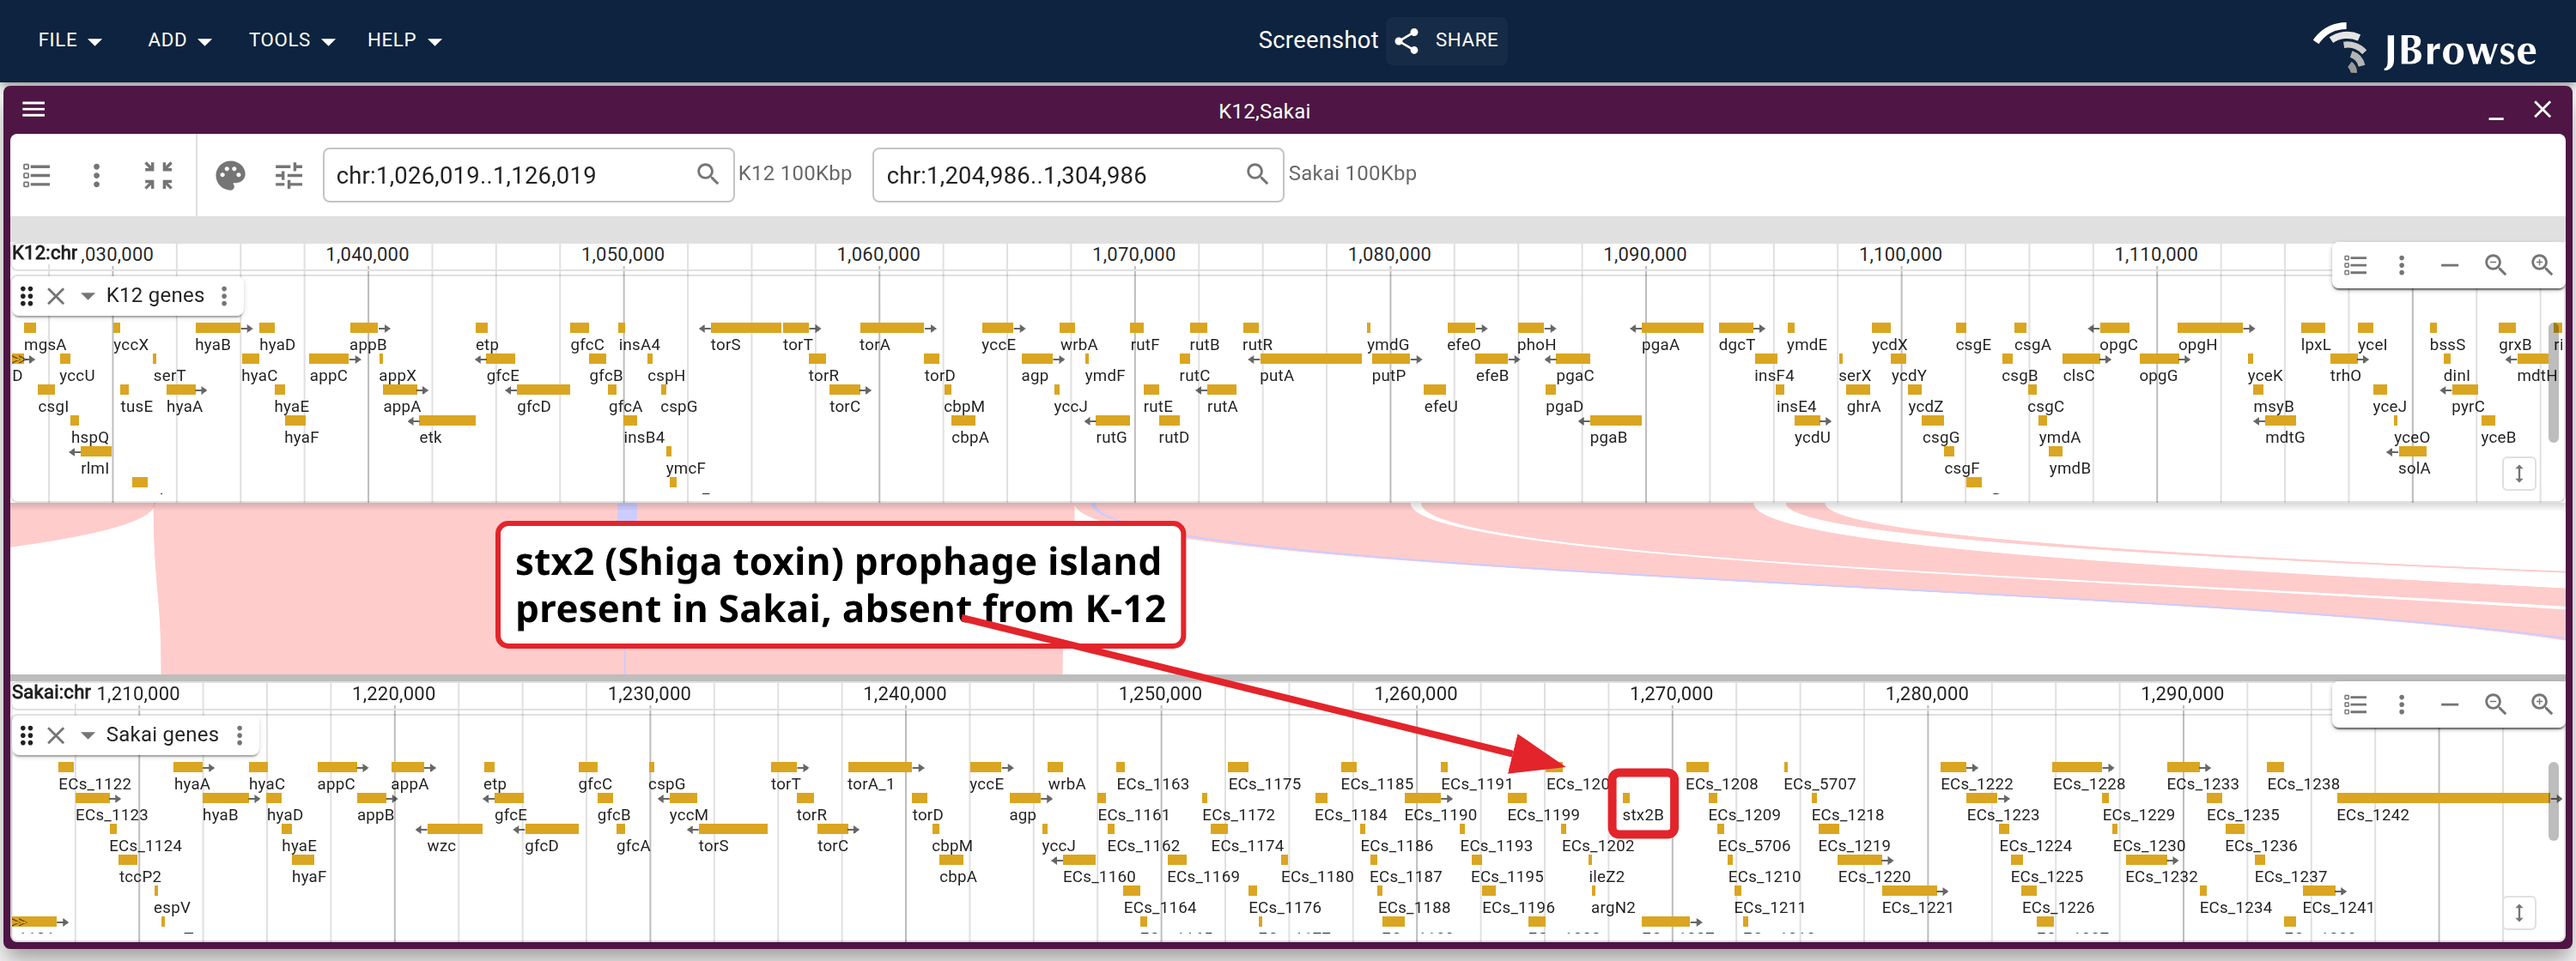
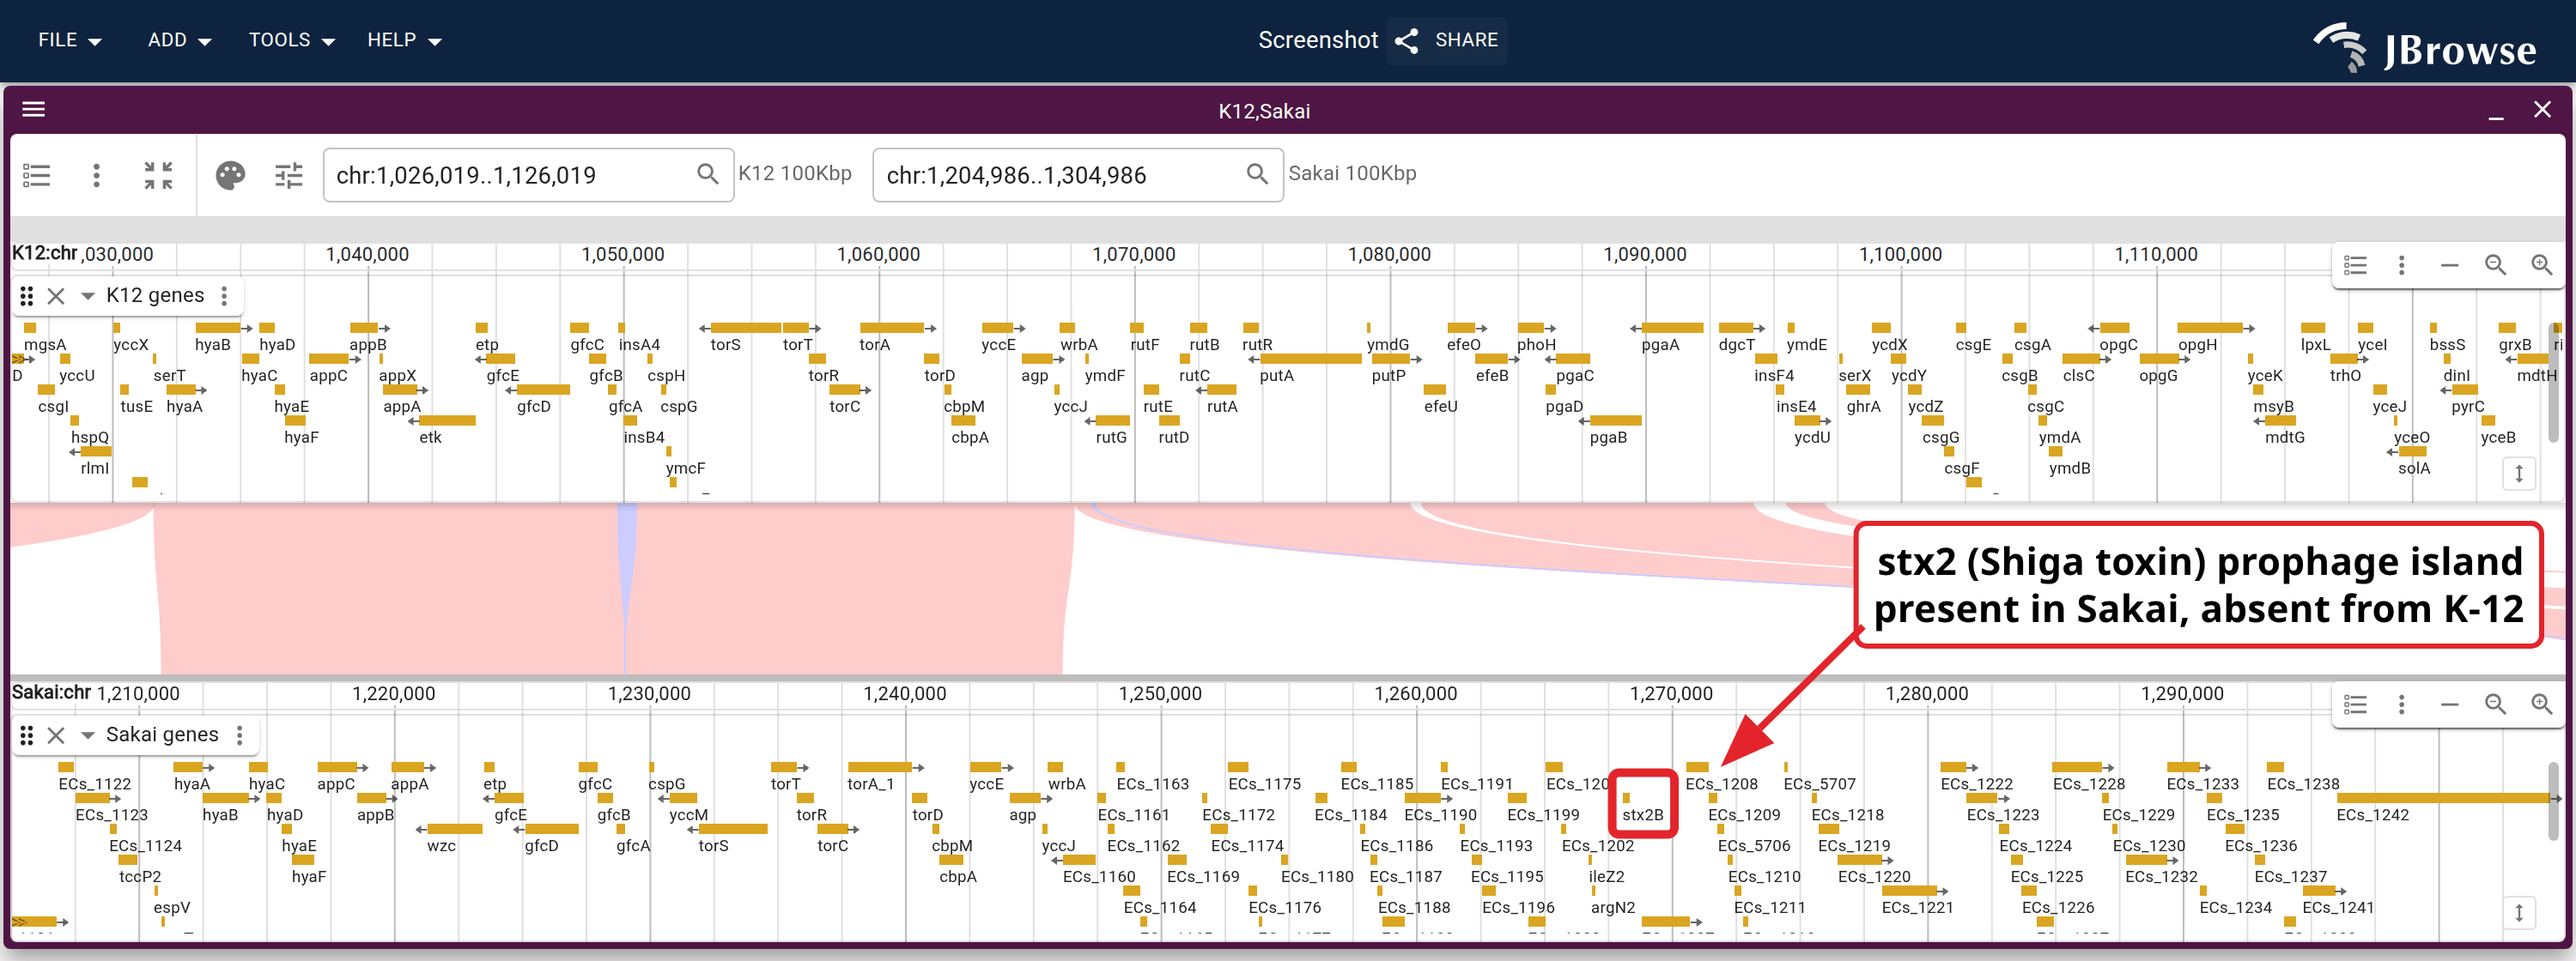
docs(website): three screenshot-review figures, and a graph beside the lanes
- multiway_synteny/ecoli_one_vs_all: "I don't see the graph in this screenshot.
  should be combined figure?" It is one now — the session carries a
  GraphGenomeView under the lanes, so the genes, the one-vs-all lanes and the
  graph of the same island are one capture. What the lanes cannot say is what
  the strains stopping at the island's left edge carry INSTEAD, since sequence
  absent from the alignment is absent from the PAF, and that is the short arm
  beside the long node. It draws the hosted gfatools slice rather than a launch
  cut off the segments index: the tabix cut expands one hop and indexes a link
  at its reference-side endpoint, so CFT073's and IAI39's detours come in as
  43 bp/558 bp stubs with nothing behind them. The island node is ringed as in
  pangenome/rgfa_paa_bubble, and the paa callout moves into the strip between
  the last lane and the graph pane's header.

- pangenome/rgfa_paa_bubble: "we may want to circle entries in the
  lineargenomeview/linearsyntenyview and the correspondance in
  graphgenomeview". A ring in each half, both anchored by name — the lane's
  from s502's own span out of the segs index, the graph's through the view's
  nodePositions, which resolves to a point ON the polyline rather than the
  bounding-box centre, which for an arc is the hole it encloses.

- multiway_synteny/ecoli_stx_island: callout moved to the right edge, as asked.
  textAlign 'end' is what pins the pill's right edge at an x, since its own
[…]

diff --git a/website/scripts/specs/synteny.ts b/website/scripts/specs/synteny.ts
@@ -13,6 +13,7 @@ import {
   hpyloriUrl,
   sessionSpec,
 } from '../screenshot-spec-helpers.ts'
+import { ECOLI_DEMO_BASE } from './demoBase.ts'
 
 import type { ScreenshotSpec } from '../screenshot-spec-types.ts'
 
@@ -957,19 +958,26 @@ export const syntenySpecs: ScreenshotSpec[] = [
     // capture time instead of hand-tuned pixels landing on a neighbor.
     annotations: [
       {
+        // right-aligned against the right edge (reviewer's ask). stx2B sits at
+        // about two thirds across, so the callout is on the far side of what it
+        // names and the arrow now runs right-to-left; `textAlign: 'end'` is what
+        // pins the pill's RIGHT edge at x, since its width is only known once
+        // the text is measured in the page.
         type: 'text',
         text: 'stx2 (Shiga toxin) prophage island\npresent in Sakai, absent from K-12',
-        x: 300,
+        x: 1470,
         y: 335,
+        textAlign: 'end',
         maxWidth: 380,
       },
       {
         type: 'arrow',
-        from: { x: 560, y: 360 },
+        from: { x: 1085, y: 365 },
         // stop short of the stx2B label instead of landing on top of it — the
-        // box below marks the gene itself
+        // box below marks the gene itself. Offset toward the tail, which is now
+        // on the right.
         anchor: { text: 'stx2B' },
-        dx: -45,
+        dx: 45,
         dy: -28,
       },
       {
@@ -1066,25 +1074,65 @@ export const syntenySpecs: ScreenshotSpec[] = [
               },
             ],
           },
+          // The graph of the same island, in the same frame (review: "I don't
+          // see the graph in this screenshot. should be combined figure?").
+          // What the lanes cannot say is what the strains that stop at the
+          // island's left edge carry INSTEAD — sequence absent from the
+          // alignment is absent from the PAF — and that is the short arm beside
+          // the long node here.
+          //
+          // The gfatools slice rather than a launch cut off the segments index:
+          // the tabix cut expands one hop off the region and a link is indexed
+          // at its reference-side endpoint, so CFT073's and IAI39's detours —
+          // which leave at s501 and rejoin at s506 — come in as 43 bp/558 bp
+          // stubs with nothing behind them, which is the opposite of what this
+          // pane is here to show. `gfatools view -R … -r 1` walks the graph
+          // itself. Same file, settings and ramp as pangenome/rgfa_paa_bubble,
+          // which draws this graph under a three-strain synteny view.
+          //
+          // The plugin loads from the hosted demo config's own `esmUrl`, which
+          // is on the generator's pre-approved list (trustCapturePlugins), so
+          // the cross-origin plugin warning does not cover the capture.
+          {
+            type: 'GraphGenomeView',
+            gfaLocation: { uri: `${ECOLI_DEMO_BASE}/ecoli_paa_subgraph.gfa` },
+            layoutMode: 'force',
+            colorScheme: 'reference-position',
+            colorDomain: { start: 1445000, end: 1474500 },
+          },
         ],
       },
     ),
-    // the extra height below the lanes is where the callout sits, so it covers
-    // no lane
-    viewportHeight: 500,
-    readySelector: '[data-testid="pileup-display-done"]',
+    viewportHeight: 1190,
+    // Both panes: the lanes' own done-marker AND the graph's layout timing.
+    // `body:has(A) B` is an AND — a bare list would be a CSS OR and fire on
+    // whichever landed first, which here is always the lanes.
+    readySelector:
+      'body:has([data-testid="graph-perf-stats"]) [data-testid="pileup-display-done"]',
     readyTimeout: 120000,
     settleMs: 12000,
     // name the island, since "three lanes stop here" is only interesting once
     // the reader knows what stops. One line; the rest is in the caption.
     annotations: [
       {
+        // centred in the strip between the last lane and the graph pane's own
+        // header, which is what the LGV's spare height is for here
         type: 'text',
         fontSize: 18,
         maxWidth: 560,
         x: 250,
-        y: 445,
+        y: 430,
         text: 'paa operon (phenylacetate catabolism): present in K-12 and NCTC86, absent from the other three',
+      },
+      {
+        // The island in the graph pane, ringed the way
+        // pangenome/rgfa_paa_bubble rings it — same segment, same slice, so the
+        // two figures mark the same node. Anchored through the view's own
+        // nodePositions, which resolves to a point ON the polyline: the arc's
+        // bounding-box centre is the empty space it encloses.
+        type: 'circle',
+        anchor: { view: 1, graphNode: 's502' },
+        radius: 40,
       },
     ],
   },

diff --git a/website/scripts/specs/graph.ts b/website/scripts/specs/graph.ts
@@ -2084,6 +2084,37 @@ export const graphSpecs: ScreenshotSpec[] = [
     // the two ribbon bands and the graph pane
     viewportHeight: 1580,
     hideTooltip: true,
+    // One ring in each half, on the same segment (review: "we may want to circle
+    // entries in the lineargenomeview/linearsyntenyview and the correspondance
+    // in graphgenomeview"). The shared hue already says they are the same
+    // object, but only to a reader who thinks to compare two panes 700px apart;
+    // the pair of rings is what makes the reader look.
+    //
+    // Both are anchored by NAME, not by pixel: the lane's by s502's own span out
+    // of the segs index (PAA_ISLAND_HIGHLIGHT, which draws the shaded band over
+    // the same bp), the graph's through the view's nodePositions, so the ring
+    // follows the node when the layout moves.
+    annotations: [
+      {
+        type: 'circle',
+        anchor: {
+          view: [0, 1],
+          track: ECOLI_SEGMENTS_TRACK,
+          locus: `chr:${PAA_ISLAND_HIGHLIGHT.start}-${PAA_ISLAND_HIGHLIGHT.end}`,
+        },
+        // the 50px lane, ringed a little proud of it. The block is ~150px wide
+        // here, so a ring sized to the whole segment would swallow its
+        // neighbours; this marks it without hiding what it sits between.
+        radius: 34,
+      },
+      {
+        type: 'circle',
+        anchor: { view: 1, graphNode: 's502' },
+        // resolves to a point ON the node's polyline rather than its bounding
+        // box, which for a node bent into an arc is the empty space inside it
+        radius: 40,
+      },
+    ],
   },
   // NO FIGURE for the per-strain paths track (`ecoli_minigraph_paths`), which
   // graph_genome_view.md still documents and the demo still hosts. Retired
